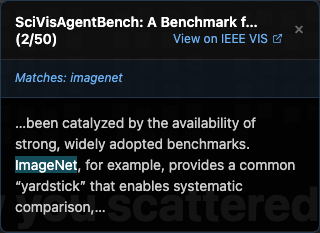
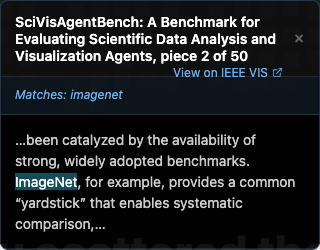
IEEE VIS popup: one default excerpt, about thirty words, the sentence that best matches the paper's keywords
Drops the first-sentence and unusual-sentence alternatives and the
?excerpt= switch. A paper with no keywords falls back to its most
unusual sentence; a reference list shows its opening.

Claude-Session: https://claude.ai/code/session_01DBAPtZoiNH14vcZbZFmLgJ

diff --git a/apps/ieeevis/test/excerpts.test.ts b/apps/ieeevis/test/excerpts.test.ts
@@ -43,48 +43,45 @@ describe('the excerpt shown with no search', () => {
   const filler = (n: number) => Array.from({ length: n }, () => 'ordinary').join(' ');
   const sentence = (n: number, word: string) => `${word} ${filler(n - 2)} words.`;
   const rarity = (word: string) => (word === 'unusual' ? 5 : 1);
-  const input = (method: 'first' | 'rare' | 'keywords', keywords: string[] = []) => ({
-    method,
-    rarity,
-    keywords,
-  });
-  const text = [sentence(12, 'Plain'), sentence(12, 'Unusual'), sentence(12, 'Sampling')].join(' ');
+  const input = (keywords: string[] = []) => ({ rarity, keywords });
+  const text = [sentence(20, 'Plain'), sentence(20, 'Unusual'), sentence(20, 'Sampling')].join(' ');
 
-  it('begins at the first sentence', () => {
-    expect(defaultExcerpt(text, input('first')).startsWith('Plain')).toBe(true);
+  it('chooses the sentence that uses the paper’s keywords', () => {
+    expect(defaultExcerpt(text, input(['sampling'])).startsWith('…Sampling')).toBe(true);
   });
 
-  it('can choose the sentence with the rarest words', () => {
-    expect(defaultExcerpt(text, input('rare')).startsWith('…Unusual')).toBe(true);
+  it('without keywords chooses the sentence with the rarest words', () => {
+    expect(defaultExcerpt(text, input()).startsWith('…Unusual')).toBe(true);
   });
 
-  it('can choose the sentence that uses the paper’s keywords', () => {
-    expect(defaultExcerpt(text, input('keywords', ['sampling'])).startsWith('…Sampling')).toBe(
-      true,
-    );
+  it('can take the opening instead', () => {
+    expect(defaultExcerpt(text, { ...input(['sampling']), opening: true })).toMatch(/^Plain/);
   });
 
-  it('marks an excerpt that starts or stops partway into the text', () => {
-    const cut = defaultExcerpt(text, input('rare'));
-    expect(cut.startsWith('…Unusual')).toBe(true);
-    expect(cut.endsWith('…')).toBe(true);
-    const whole = defaultExcerpt(sentence(12, 'Only'), input('first'));
-    expect(whole).toBe(sentence(12, 'Only'));
+  it('marks an excerpt that stops before the text ends, and one that starts partway', () => {
+    expect(defaultExcerpt(text, input()).endsWith('…')).toBe(true);
+    const whole = sentence(20, 'Only');
+    expect(defaultExcerpt(whole, input())).toBe(whole);
   });
 
-  it('cuts a long sentence to about twenty words', () => {
-    const cut = defaultExcerpt(sentence(60, 'Long'), input('first'));
-    expect(cut.split(' ')).toHaveLength(20);
+  it('runs a short sentence on into the next', () => {
+    const short = `${sentence(10, 'Short')} ${sentence(10, 'Next')}`;
+    expect(defaultExcerpt(short, input())).toBe(short);
+  });
+
+  it('cuts a long sentence to about thirty words', () => {
+    const cut = defaultExcerpt(sentence(60, 'Long'), input());
+    expect(cut.split(' ')).toHaveLength(30);
     expect(cut.endsWith('…')).toBe(true);
   });
 
   it('does not end a sentence at an abbreviation', () => {
-    const quoted = `Smith et al. showed ${filler(10)} words. Next ${filler(10)} words.`;
-    expect(defaultExcerpt(quoted, input('first')).startsWith('Smith et al. showed')).toBe(true);
-    expect(defaultExcerpt(quoted, input('first'))).not.toContain('Next');
+    const quoted = `Smith et al. showed ${filler(20)} words. Next ${filler(20)} words.`;
+    expect(defaultExcerpt(quoted, input()).startsWith('Smith et al. showed')).toBe(true);
+    expect(defaultExcerpt(quoted, input())).not.toContain('Next');
   });
 
   it('is empty for an empty text', () => {
-    expect(defaultExcerpt('', input('first'))).toBe('');
+    expect(defaultExcerpt('', input())).toBe('');
   });
 });

diff --git a/apps/ieeevis/src/excerpts.ts b/apps/ieeevis/src/excerpts.ts
@@ -10,13 +10,9 @@ export const HIT_CONTEXT_WORDS = 10;
 /** The most words between two hits that are still shown. */
 export const HIT_GAP_WORDS = 60;
 /** About how long a default excerpt is; a sentence runs on to a whole one up to the longer limit. */
-const DEFAULT_WORDS = 20;
-const DEFAULT_WORDS_MAX = 26;
+const DEFAULT_WORDS = 30;
+const DEFAULT_WORDS_MAX = 38;
 const SENTENCE_MIN_WORDS = 8;
-
-/** How the default excerpt is chosen: the piece's opening, its most unusual sentence, or the sentence about the paper's keywords. */
-export const DEFAULT_METHODS = ['first', 'rare', 'keywords'] as const;
-export type DefaultMethod = (typeof DEFAULT_METHODS)[number];
 
 const ELLIPSIS = '…';
 
@@ -136,14 +132,15 @@ function mean(values: number[]): number {
 }
 
 export interface DefaultInput {
-  method: DefaultMethod;
   rarity: Rarity;
   /** The paper's keywords. */
   keywords: readonly string[];
+  /** Take the text's opening, where no sentence is worth picking, as in a reference list. */
+  opening?: boolean;
 }
 
 /** A sentence's score, higher the better chosen; null if it is not a candidate. */
-function score(sentence: string, { method, rarity, keywords }: DefaultInput): number | null {
+function score(sentence: string, { rarity, keywords }: DefaultInput): number | null {
   const words = alphabetic(sentence);
   const tokens = sentence.split(/\s+/).length;
   // A table, a formula, a list of numbers or an author's address has few words in it.
@@ -151,20 +148,20 @@ function score(sentence: string, { method, rarity, keywords }: DefaultInput): nu
     return null;
   const distinct = [...new Set(words)];
   const unusual = mean(distinct.map(rarity));
-  if (method === 'rare') return unusual;
   const wanted = new Set(keywords.flatMap(alphabetic).map(stemOf));
   const matched = distinct.filter((w) => wanted.has(stemOf(w)));
-  // The keywords decide; how unusual the rest is only separates sentences that tie.
+  // The keywords decide; how unusual the words are separates sentences that tie, and picks
+  // alone when the paper lists no keywords.
   return matched.length + unusual / 100;
 }
 
-/** The excerpt to show when nothing is searched: about twenty words. */
+/** The excerpt to show when nothing is searched: about thirty words, from the sentence that best matches the paper's keywords. */
 export function defaultExcerpt(text: string, input: DefaultInput): string {
   const spans = wordSpans(text);
   if (spans.length === 0) return '';
   const all = sentences(text, spans);
   let pick = all[0];
-  if (input.method !== 'first') {
+  if (!input.opening) {
     let best: number | null = null;
     for (const range of all) {
       const s = score(text.slice(spans[range[0]].start, spans[range[1]].end), input);

diff --git a/apps/ieeevis/src/text.ts b/apps/ieeevis/src/text.ts
@@ -18,13 +18,7 @@ import { baseColor, isPlaceholder, PLACEHOLDER_RING } from './baseColor.ts';
 import { TEXTS_FILE, structureFrom, type PaperTexts } from './data.ts';
 import { ieeevisFiles } from './files.ts';
 import { referenceLines } from './references.ts';
-import {
-  DEFAULT_METHODS,
-  defaultExcerpt,
-  hitExcerpt,
-  rarityOf,
-  type DefaultMethod,
-} from './excerpts.ts';
+import { defaultExcerpt, hitExcerpt, rarityOf } from './excerpts.ts';
 import { computeLayout, PANEL_PAD, TIME_STRIP, type PieceItem } from './layout.ts';
 import { KINDS_ID } from './overlays/kinds.ts';
 import { VIS_OVERLAYS, visOverlayParams } from './overlays/index.ts';
@@ -82,32 +76,13 @@ function hitRanges(
   return ranges;
 }
 
-/**
- * Which default excerpt to try, chosen in the address as ?excerpt=first, rare or keywords. The
- * address is rewritten with only the link's own parameters, so the choice is kept for the tab.
- */
-const EXCERPT_KEY = 'ieeevis-excerpt';
-function readMethod(): DefaultMethod {
-  const asked = new URLSearchParams(location.search).get('excerpt');
-  try {
-    if (asked) sessionStorage.setItem(EXCERPT_KEY, asked);
-    return (
-      DEFAULT_METHODS.find((m) => m === (asked ?? sessionStorage.getItem(EXCERPT_KEY))) ?? 'first'
-    );
-  } catch {
-    return DEFAULT_METHODS.find((m) => m === asked) ?? 'first';
-  }
-}
-const chosenMethod = readMethod();
-
 /** What a piece shows when nothing is searched in it: a paper's first piece begins with its authors. */
 function defaultBody(item: PieceItem, text = '', texts?: PaperTexts): string {
   const { paper, piece, section } = item;
-  const method = section === 'f' || !texts ? 'first' : chosenMethod;
   const excerpt = defaultExcerpt(text, {
-    method,
     rarity: texts ? rarityOf(texts) : () => 0,
     keywords: paper.keywords ?? [],
+    opening: section === 'f',
   });
   return squareBody({ paper, piece }, excerpt);
 }
